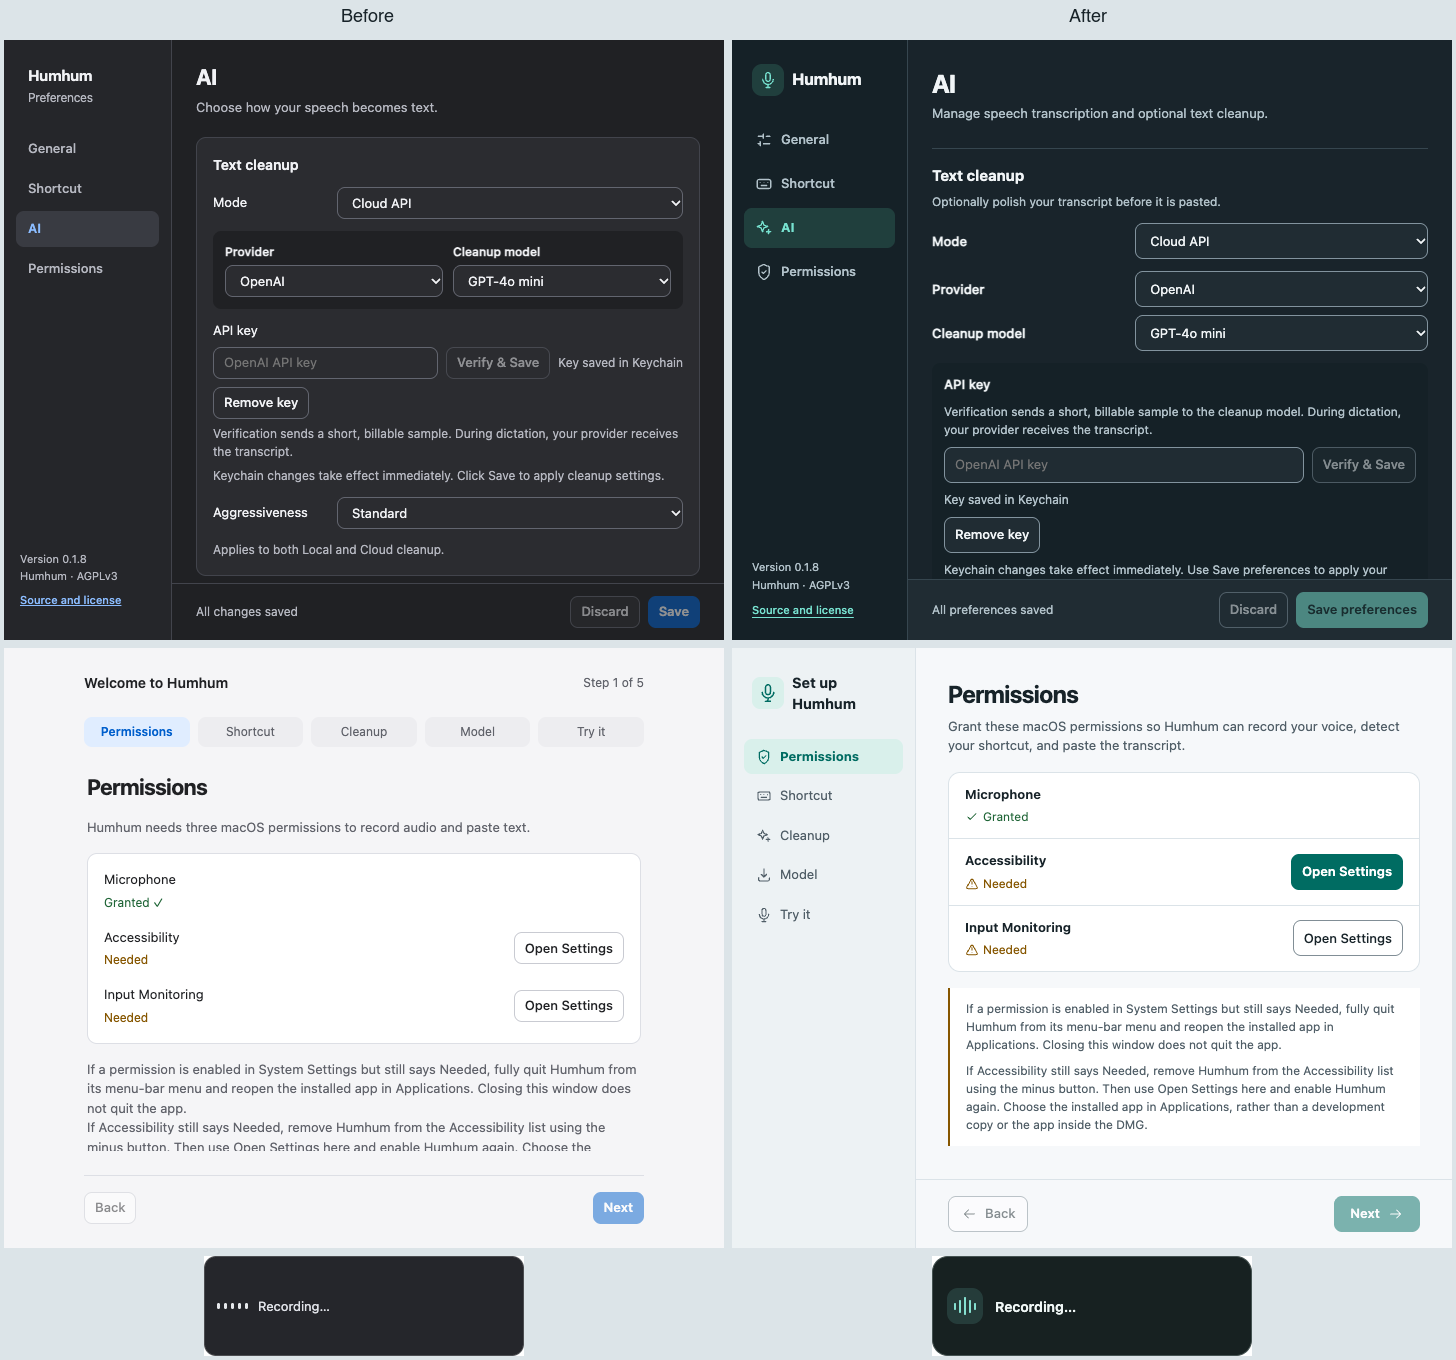
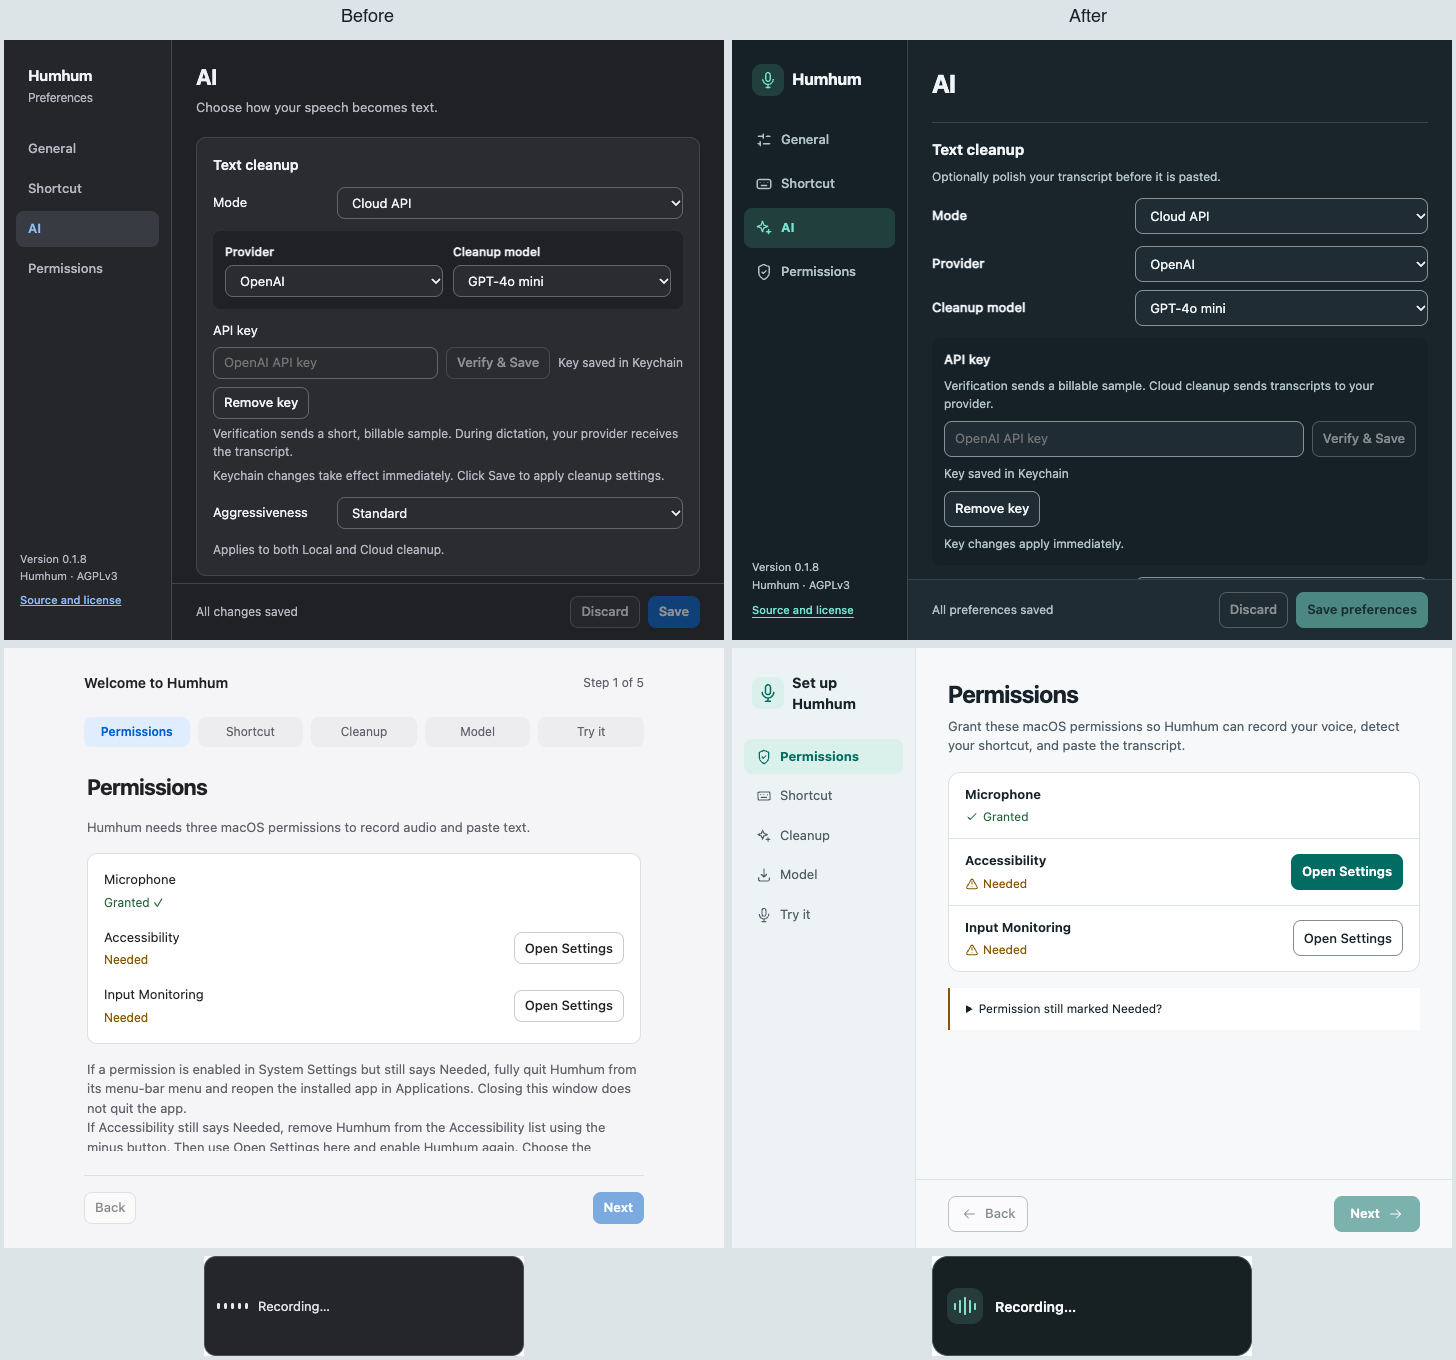
Address desktop UI review and edge cases

Changed region(s): [[0.6181, 0.0618, 0.9581, 0.4324], [0.649, 0.7412, 0.9581, 0.8338], [0.9581, 0.1544, 0.989, 0.2471]]

diff --git a/src/components/PrefsPanel/AiSection.tsx b/src/components/PrefsPanel/AiSection.tsx
@@ -1,4 +1,5 @@
-import { useEffect, useState } from "react";
+import { useState } from "react";
+import { useInitialModelStatus } from "../../hooks/useInitialModelStatus";
 import { usePrefsStore } from "../../stores/prefs";
 import { useRecordingStore } from "../../stores/recording";
 import { ipc } from "../../lib/ipc";
@@ -24,14 +25,8 @@ export function AiSection() {
   const downloadProgress = useRecordingStore((s) => s.downloadProgress);
   const setField = usePrefsStore.getState().setField;
 
-  useEffect(() => {
-    for (const { id } of MODELS) {
-      ipc
-        .getModelStatus(id)
-        .then((s) => useRecordingStore.getState().setModelStatus(id, s))
-        .catch(() => {});
-    }
-  }, []);
+  useInitialModelStatus("base_en");
+  useInitialModelStatus("small_en");
 
   function effectiveStatus(id: WhisperModel): ModelStatus {
     const s = modelStatus[id];
@@ -127,20 +122,22 @@ export function AiSection() {
             <div key={m.id} className="prefs__model-row">
               <span className="prefs__row-label">{m.label}</span>
               <ModelStatusBadge status={status} />
-              <button
-                type="button"
-                aria-label={`${failed ? "Retry" : "Download"} ${m.label}`}
-                disabled={status === "ready" || downloading}
-                onClick={() => {
-                  useRecordingStore.getState().setDownloadProgress(m.id, 0);
-                  useRecordingStore.getState().setModelStatus(m.id, { downloading: 0 });
-                  void ipc.downloadModel(m.id).catch(() => {
-                    useRecordingStore.getState().setModelStatus(m.id, { error: "Could not start the download. Try again." });
-                  });
-                }}
-              >
-                {status === "ready" ? "Downloaded" : failed ? "Retry" : "Download"}
-              </button>
+              {status !== "ready" && (
+                <button
+                  type="button"
+                  aria-label={`${failed ? "Retry" : "Download"} ${m.label}`}
+                  disabled={downloading}
+                  onClick={() => {
+                    useRecordingStore.getState().setDownloadProgress(m.id, 0);
+                    useRecordingStore.getState().setModelStatus(m.id, { downloading: 0 });
+                    void ipc.downloadModel(m.id).catch(() => {
+                      useRecordingStore.getState().setModelStatus(m.id, { error: "Could not start the download. Try again." });
+                    });
+                  }}
+                >
+                  {failed ? "Retry" : "Download"}
+                </button>
+              )}
             </div>
           );
         })}

diff --git a/src/components/PrefsPanel/GeneralSection.tsx b/src/components/PrefsPanel/GeneralSection.tsx
@@ -6,7 +6,12 @@ import { SYSTEM_DEFAULT_INPUT_DEVICE } from "../../lib/types";
 export function GeneralSection() {
   const prefs = usePrefsStore((s) => s.prefs);
   const setField = usePrefsStore.getState().setField;
-  const [inputDevices, setInputDevices] = useState<string[]>([]);
+  const [inputDevices, setInputDevices] = useState<string[]>();
+  const preferred = prefs.preferredInputDevice;
+  const missingDevice = preferred && preferred !== SYSTEM_DEFAULT_INPUT_DEVICE && !inputDevices?.includes(preferred);
+  const selectedLabel = preferred === SYSTEM_DEFAULT_INPUT_DEVICE ? "System Default"
+    : missingDevice && inputDevices ? `${preferred} (unavailable)`
+    : preferred ?? "Auto";
 
   useEffect(() => {
     ipc
@@ -34,16 +39,15 @@ export function GeneralSection() {
         <label className="prefs__row">
           <span>Input device</span>
           <select
-            value={prefs.preferredInputDevice ?? ""}
-            title={prefs.preferredInputDevice === SYSTEM_DEFAULT_INPUT_DEVICE
-              ? "System Default"
-              : prefs.preferredInputDevice ?? "Auto (avoid Bluetooth mic switching)"}
+            value={preferred ?? ""}
+            title={selectedLabel}
             aria-describedby="prefs-audio-hint"
             onChange={(e) => setField("preferredInputDevice", e.target.value || null)}
           >
-            <option value="">Auto (avoid Bluetooth mic switching)</option>
+            <option value="">Auto</option>
             <option value={SYSTEM_DEFAULT_INPUT_DEVICE}>System Default</option>
-            {inputDevices.map((name) => (
+            {missingDevice && <option value={preferred}>{selectedLabel}</option>}
+            {inputDevices?.map((name) => (
               <option key={name} value={name}>
                 {name}
               </option>

diff --git a/src/components/Onboarding/ModelDownloadStep.test.tsx b/src/components/Onboarding/ModelDownloadStep.test.tsx
@@ -10,6 +10,7 @@ vi.mock("../../lib/ipc", () => ({
 }));
 import { ModelDownloadStep } from "./ModelDownloadStep";
 import { ipc } from "../../lib/ipc";
+import type { ModelStatus } from "../../lib/types";
 import { useRecordingStore } from "../../stores/recording";
 
 beforeEach(() => { vi.clearAllMocks(); useRecordingStore.getState().reset(); });
@@ -49,6 +50,20 @@ test("marks download active before the first progress event", async () => {
   render(<ModelDownloadStep onReady={() => {}} />);
   await waitFor(() => expect(ipc.getModelStatus).toHaveBeenCalled());
   await userEvent.click(screen.getByRole("button", { name: "Download" }));
+  expect(screen.getByRole("button", { name: "Download" })).toBeDisabled();
+  expect(useRecordingStore.getState().modelStatus.base_en).toEqual({ downloading: 0 });
+});
+
+test("a late initial status cannot re-enable Download after a click", async () => {
+  let resolveStatus!: (status: ModelStatus) => void;
+  vi.mocked(ipc.getModelStatus).mockReturnValueOnce(new Promise((resolve) => {
+    resolveStatus = resolve;
+  }));
+  render(<ModelDownloadStep onReady={() => {}} />);
+
+  await userEvent.click(screen.getByRole("button", { name: "Download" }));
+  await act(async () => resolveStatus("not_downloaded"));
+
   expect(screen.getByRole("button", { name: "Download" })).toBeDisabled();
   expect(useRecordingStore.getState().modelStatus.base_en).toEqual({ downloading: 0 });
 });

diff --git a/src/components/CloudApiSettings/index.tsx b/src/components/CloudApiSettings/index.tsx
@@ -56,9 +56,9 @@ export function CloudApiSettings({ provider, onProviderChange, onBusyChange, onb
       </div>
       <div className={`${row} ${row}--col cloud-credentials`}>
         <span>API key</span>
-        {onboarding && <p className={hint}>Cleanup model: {provider === "open_ai" ? "gpt-4o-mini" : "Claude Haiku 4.5"}.</p>}
+        {onboarding && <p className={hint}>Default model {provider === "open_ai" ? "gpt-4o-mini" : "Claude Haiku 4.5"}.</p>}
         <p className={hint} id={verificationHintId}>
-          Verification sends a short, billable sample to the cleanup model. During dictation, your provider receives the transcript.
+          Verification sends a billable sample. Cloud cleanup sends transcripts to your provider.
         </p>
         <ApiKeyInput
           provider={provider}
@@ -69,7 +69,7 @@ export function CloudApiSettings({ provider, onProviderChange, onBusyChange, onb
           persistenceDescription={persistenceHintId}
         />
         <p className={hint} id={persistenceHintId}>
-          Keychain changes take effect immediately. {onboarding ? "Choose Next when your cleanup settings are ready." : "Use Save preferences to apply your cleanup settings."}
+          Key changes apply immediately.
         </p>
       </div>
     </>

diff --git a/src/components/PermissionRecoveryHint.tsx b/src/components/PermissionRecoveryHint.tsx
@@ -6,18 +6,13 @@ export function PermissionRecoveryHint({ perms }: { perms: PermissionsState }) {
 
   return (
     <div role="note" aria-label="Permission recovery">
-      <p>
-        If a permission is enabled in System Settings but still says Needed, fully quit Humhum
-        from its menu-bar menu and reopen the installed app in Applications.
-        Closing this window does not quit the app.
-      </p>
-      {!perms.accessibility && (
-        <p>
-          If Accessibility still says Needed, remove Humhum from the Accessibility list using
-          the minus button. Then use Open Settings here and enable Humhum again.
-          Choose the installed app in Applications, rather than a development copy or the app inside the DMG.
-        </p>
-      )}
+      <details>
+        <summary>Permission still marked Needed?</summary>
+        <p>Use the menu-bar menu to fully quit Humhum, then reopen it from Applications.</p>
+        {!perms.accessibility && (
+          <p>If Accessibility still shows Needed, remove Humhum from the system list and add the installed app again.</p>
+        )}
+      </details>
     </div>
   );
 }

diff --git a/src/components/Onboarding/index.test.tsx b/src/components/Onboarding/index.test.tsx
@@ -101,6 +101,24 @@ async function reachModel() {
   await clickNext();
 }
 
+test("enables Finish after a successful first dictation and saves setup", async () => {
+  await reachModel();
+  await clickNext();
+  const finish = await screen.findByRole("button", { name: "Finish" });
+  expect(finish).toBeDisabled();
+
+  act(() => handlers.get("transcription-discarded")?.({ payload: undefined }));
+  expect(finish).toBeDisabled();
+  act(() => handlers.get("recording-started")?.({ payload: undefined }));
+  act(() => handlers.get("cleanup-done")?.({ payload: { text: "Hello Humhum." } }));
+  expect(screen.getByRole("status")).toHaveTextContent("Hello Humhum.");
+  await waitFor(() => expect(finish).toBeEnabled());
+  await userEvent.click(finish);
+
+  await waitFor(() => expect(usePrefsStore.getState().savedPrefs.onboardingComplete).toBe(true));
+  expect(ipc.savePrefs).toHaveBeenLastCalledWith(expect.objectContaining({ onboardingComplete: true }));
+});
+
 test("applies the chosen shortcut before entering Try it and prevents duplicate navigation", async () => {
   await reachModel();
   let resolveSave!: () => void;

diff --git a/src/components/PrefsPanel/index.test.tsx b/src/components/PrefsPanel/index.test.tsx
@@ -327,6 +327,16 @@ test("selecting an input device is picked up as a dirtying change", async () => 
   );
 });
 
+test("shows a saved microphone as unavailable when it is disconnected", async () => {
+  const prefs = { ...DEFAULTS, preferredInputDevice: "Disconnected USB mic" };
+  usePrefsStore.setState({ prefs, savedPrefs: prefs });
+  await renderPanel();
+  const device = screen.getByLabelText("Input device");
+  expect(device).toHaveValue("Disconnected USB mic");
+  expect(screen.getByRole("option", { name: "Disconnected USB mic (unavailable)" })).toHaveProperty("selected", true);
+  expect(screen.getByRole("button", { name: "Save preferences" })).toBeDisabled();
+});
+
 test("failed save displays feedback and retains edits for retry", async () => {
   vi.mocked(ipc.savePrefs).mockRejectedValueOnce(new Error("Disk unavailable"));
   await renderPanel();

diff --git a/e2e/specs/modelDownload.e2e.ts b/e2e/specs/modelDownload.e2e.ts
@@ -3,7 +3,7 @@ import { switchToPrefs } from "../support/prefsWindow.ts";
 // Manual-checklist flow: model download progress. onboardingComplete seeded
 // true + HUMHUM_E2E_SHOW_PREFS_ON_STARTUP=1 lands directly on PrefsPanel
 // (no tray to click). Asserts the Base (English) row's badge cycles
-// Not downloaded -> Downloading n% -> Ready and the Download button disables.
+// Not downloaded -> Downloading n% -> Ready and the action disappears when ready.
 describe("model download", () => {
   it("downloads the base_en model and reflects live progress", async () => {
     await switchToPrefs();
@@ -28,6 +28,6 @@ describe("model download", () => {
       timeout: 30000,
       timeoutMsg: "base_en model never reached Ready",
     });
-    await expect(downloadBtn).toBeDisabled();
+    await expect(downloadBtn).not.toBeExisting();
   });
 });

diff --git a/src/components/ApiKeyInput/index.tsx b/src/components/ApiKeyInput/index.tsx
@@ -151,7 +151,7 @@ function ProviderKeyInput({
       <button className="api-key-input__verify" type="button" aria-describedby={[verificationDescription, persistenceDescription].filter(Boolean).join(" ") || undefined} disabled={blocked || verificationDisabled || key.trim().length === 0} onClick={() => void run("saving")}>
         {action === "saving" ? "Verifying…" : "Verify & Save"}
       </button>
-      <span className="api-key-input__note" aria-live="polite">{STATUS_TEXT[status]}</span>
+      <span className="api-key-input__note">{STATUS_TEXT[status]}</span>
       {(status === "saved" || status === "error") && (
         <button type="button" aria-describedby={persistenceDescription} disabled={blocked} onClick={() => void run("removing")}>
           {action === "removing" ? "Removing…" : "Remove key"}

diff --git a/src/components/Onboarding/ModelDownloadStep.tsx b/src/components/Onboarding/ModelDownloadStep.tsx
@@ -1,4 +1,5 @@
 import { useEffect } from "react";
+import { useInitialModelStatus } from "../../hooks/useInitialModelStatus";
 import { ipc } from "../../lib/ipc";
 import { useRecordingStore } from "../../stores/recording";
 import { Icon } from "../Icon";
@@ -12,11 +13,7 @@ export function ModelDownloadStep({ onReady }: { onReady: (ready: boolean) => vo
   const status = useRecordingStore((s) => s.modelStatus.base_en);
   const pct = useRecordingStore((s) => s.downloadProgress.base_en);
 
-  useEffect(() => {
-    ipc.getModelStatus("base_en")
-      .then((st) => useRecordingStore.getState().setModelStatus("base_en", st))
-      .catch(() => {});
-  }, []);
+  useInitialModelStatus("base_en");
 
   const ready = status === "ready";
   useEffect(() => { onReady(ready); }, [ready, onReady]);

diff --git a/src/hooks/useInitialModelStatus.ts b/src/hooks/useInitialModelStatus.ts
@@ -1,0 +1,20 @@
+import { useEffect } from "react";
+import { ipc } from "../lib/ipc";
+import type { WhisperModel } from "../lib/types";
+import { useRecordingStore } from "../stores/recording";
+
+export function useInitialModelStatus(model: WhisperModel) {
+  useEffect(() => {
+    let active = true;
+    const expected = useRecordingStore.getState().modelStatus[model];
+    // Active downloads are reconciled by useModelEvents.
+    if (typeof expected === "object" && "downloading" in expected) return;
+
+    void ipc.getModelStatus(model).then((status) => {
+      const store = useRecordingStore.getState();
+      if (active && store.modelStatus[model] === expected) store.setModelStatus(model, status);
+    }).catch(() => {});
+
+    return () => { active = false; };
+  }, [model]);
+}

diff --git a/src/components/PrefsPanel/index.tsx b/src/components/PrefsPanel/index.tsx
@@ -107,7 +107,7 @@ export function PrefsPanel() {
           tabIndex={0}
           hidden={activeTab !== "ai"}
         >
-          <header className="page-heading"><h1>AI</h1><p>Manage speech transcription and optional text cleanup.</p></header>
+          <header className="page-heading"><h1>AI</h1></header>
           <AiSection />
         </section>
 
@@ -119,7 +119,7 @@ export function PrefsPanel() {
           tabIndex={0}
           hidden={activeTab !== "permissions"}
         >
-          <header className="page-heading"><h1>Permissions</h1><p>Review the permissions required for dictation.</p></header>
+          <header className="page-heading"><h1>Permissions</h1></header>
           <div className="prefs__section">
             <PermissionsNotice />
           </div>
